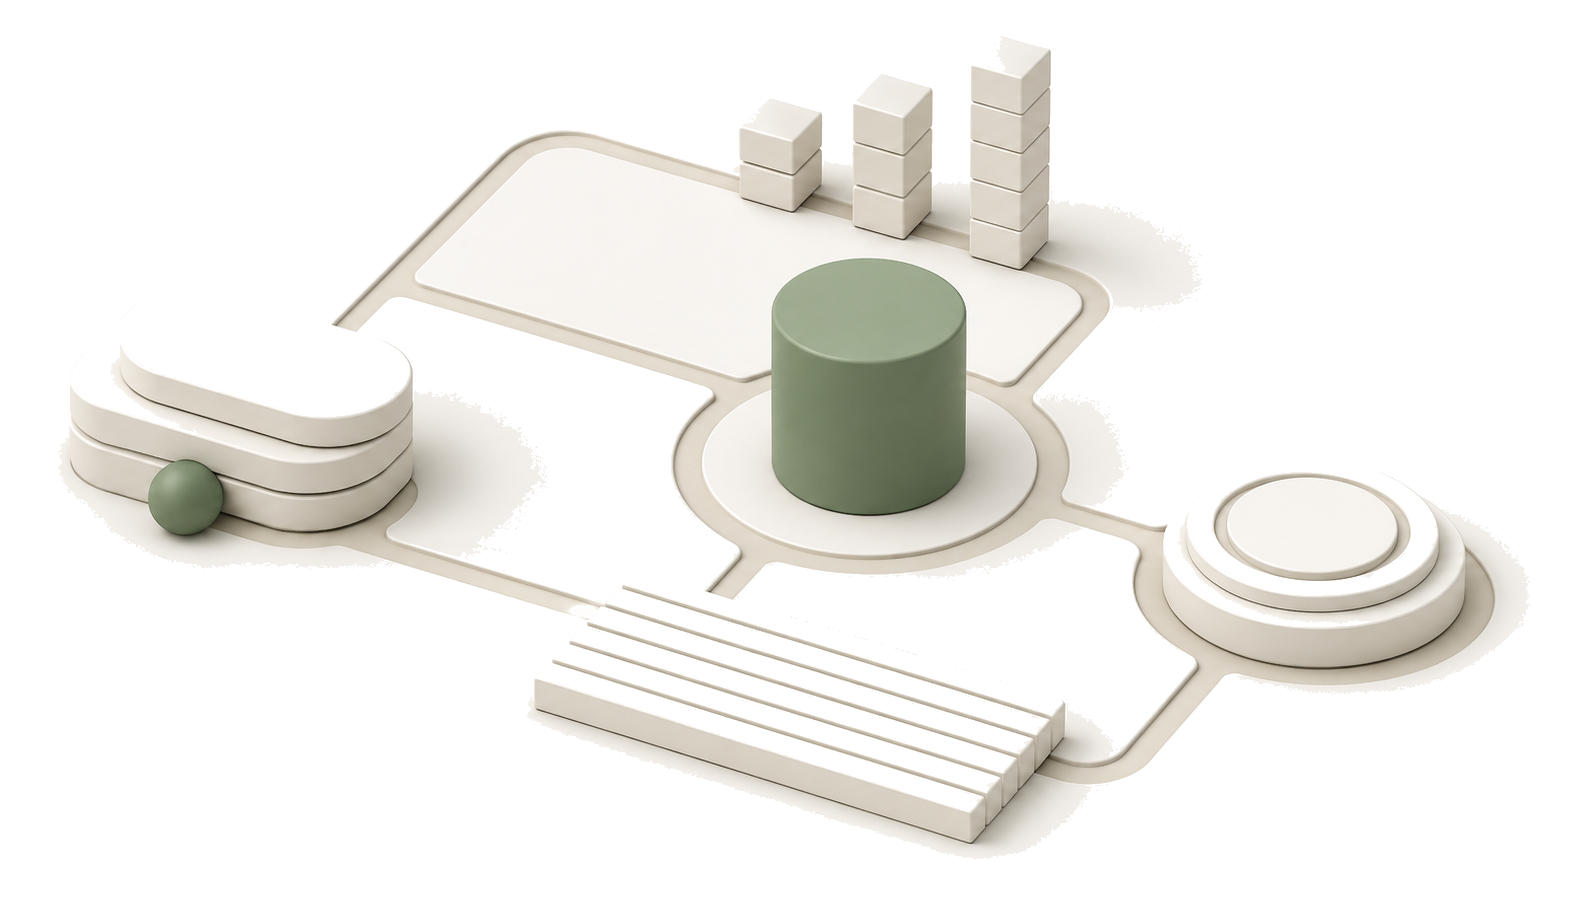
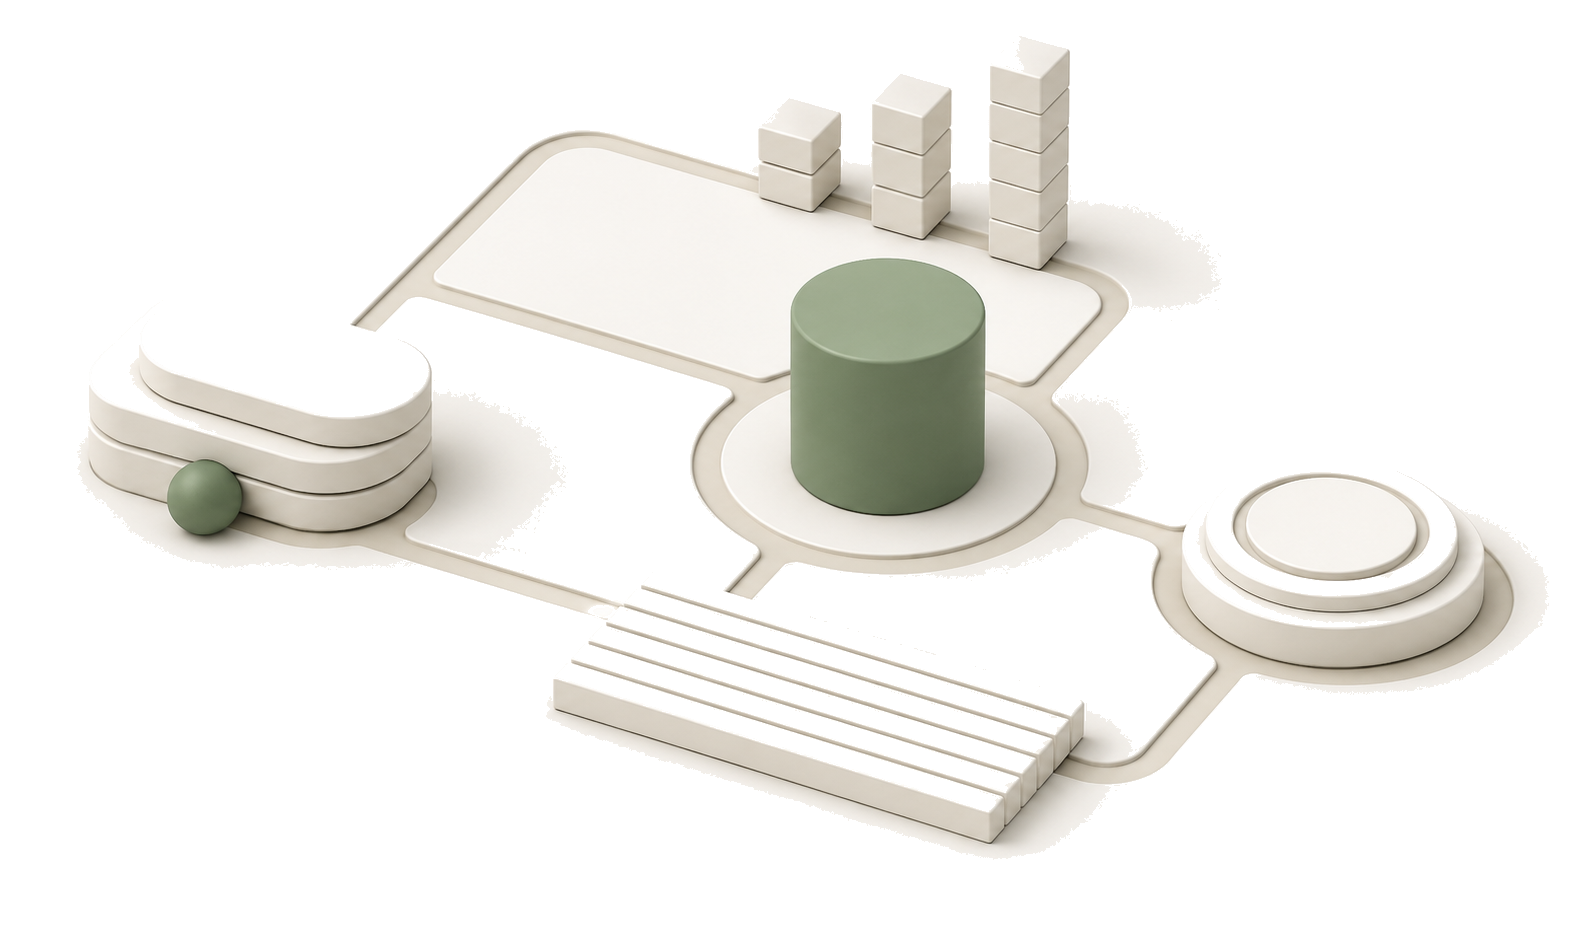
feat(jornada): as sete cenas ligadas aos passos, alinhadas por correlação de fase
O scrollytelling agora troca de estado de verdade: a cena fixa muda conforme o
passo em vista, e o trilho numerado acompanha. Verificado ponto a ponto — passo e
cena batem em 01, 02, 03, 05, 06 e 07.

ALINHAMENTO (scripts/alinhar.py, novo). Correlação de fase por FFT contra a cena
base, sem escolher peça-âncora à mão — o que seria frágil, porque cada estado
muda peças diferentes. Resultado que me contradiz: QUATRO das cinco cenas vieram
com deslocamento ZERO. Eu tinha avisado que viriam desalinhadas; isso valia para
as camadas isoladas, não para cenas completas — a fórmula "change ONLY..." segura
o enquadramento em close. Só a cena-04 estava a -13px, corrigida para +3, que é o
piso de ruído da medição (amostra de 512px para imagem de 1672px).

Erro de sinal encontrado por medição: a primeira versão do corretor colava em
(-dx,-dy) e DOBRAVA o desvio — a cena-04 foi de -13 para -26. Corrigido para
(dx,dy). Sem medir o resíduo depois de aplicar, isso teria passado.

Depois do alinhamento, todas recortadas com uma JANELA ÚNICA (união dos bboxes),
o que preserva o alinhamento e tira margem por igual.

MECANISMO. IntersectionObserver com faixa central da tela: o passo em vista é o
que está no meio, não o que encostou na borda — senão a cena troca antes do
texto que a pessoa está lendo. As sete imagens ficam no HTML servido, requisito
de GEO; o script só decide qual está opaca, e sem ele o conteúdo continua todo lá.
[…]

Changed region(s): [[0.0309, 0.0305, 0.9565, 0.9455]]

diff --git a/components/Jornada.tsx b/components/Jornada.tsx
@@ -1,5 +1,7 @@
 import Image from "next/image";
 
+import { CenaSticky } from "./CenaSticky";
+
 /**
  * A vida de um lead — o scrollytelling.
  *
@@ -10,9 +12,16 @@ import Image from "next/image";
  * O trilho numerado à esquerda vem da referência do Twenty: sem ele, sticky longo
  * vira desorientação — o visitante não sabe em que passo está nem quantos faltam.
  *
- * ESTADO ATUAL: as sete cenas ainda não foram geradas; todas apontam para a
- * cena base. A estrutura, o sticky e o trilho já são os definitivos — quando as
- * imagens chegarem é só trocar `img` em cada passo.
+ * ALINHAMENTO: as cenas foram alinhadas por correlação de fase contra a base
+ * (scripts/alinhar.py) e recortadas com uma janela única. Quatro das cinco já
+ * vieram com deslocamento ZERO — a fórmula "change ONLY..." segura o
+ * enquadramento em cenas de close. Resíduo máximo: 3px, abaixo do piso de ruído
+ * da medição.
+ *
+ * PENDÊNCIAS: o passo 01 usa a cena base (a esfera já está na conversa e os
+ * sulcos estão apagados, o que serve, mas falta o cartão de contexto subindo).
+ * O passo 06 reusa a cena do 05 porque a imagem de handoff saiu em 1536x1024
+ * contra 1672x941 das demais — câmera diferente, pularia no sticky.
  */
 const PASSOS = [
   {
@@ -28,7 +37,7 @@ const PASSOS = [
     titulo: "O agente lê antes de falar",
     texto:
       "Ele busca na base de conhecimento da sua empresa — seu prazo, sua política, seu catálogo. Não inventa.",
-    img: "/img/cena-00-base.png",
+    img: "/img/cena-02.png",
     alt: "Uma linha liga o agente à base de conhecimento; os documentos acendem em sequência.",
   },
   {
@@ -36,7 +45,7 @@ const PASSOS = [
     titulo: "Sete verificações antes de enviar",
     texto:
       "Descadastro, LGPD, anti-banimento, variação de texto, promessa determinística, promessa semântica e aviso de automação. Nessa ordem, sempre.",
-    img: "/img/cena-00-base.png",
+    img: "/img/cena-03.png",
     alt: "Sete blocos formam um corredor entre o agente e a borda da mesa. Seis passam em verde; um barra em âmbar.",
   },
   {
@@ -44,7 +53,7 @@ const PASSOS = [
     titulo: "Inclusive o que ele decidiu não enviar",
     texto:
       "O agente ia prometer entrega em 24h. A verificação barrou: esse prazo não existe no seu catálogo. Fica registrado o que ele ia dizer — e por que não disse.",
-    img: "/img/cena-00-base.png",
+    img: "/img/cena-04.png",
     alt: "Aproximação no bloco âmbar; um registro se materializa ao lado com a razão da recusa.",
   },
   {
@@ -52,7 +61,7 @@ const PASSOS = [
     titulo: "O lead se move sozinho",
     texto:
       "Qualificado, ele muda de etapa no funil. A etiqueta entra, o responsável é definido — e cada movimento tem motivo registrado.",
-    img: "/img/cena-00-base.png",
+    img: "/img/cena-05.png",
     alt: "A esfera do lead percorre a trilha até o funil e assenta numa coluna nova.",
   },
   {
@@ -60,7 +69,7 @@ const PASSOS = [
     titulo: "Quando é a vez do humano, ele recebe contexto",
     texto:
       "Não a conversa crua: resumo do que aconteceu, o que foi combinado, quais objeções apareceram e qual é o próximo passo.",
-    img: "/img/cena-00-base.png",
+    img: "/img/cena-05.png",
     alt: "O módulo do agente passa o bastão para o do atendente; um cartão de resumo transita entre os dois.",
   },
   {
@@ -68,7 +77,7 @@ const PASSOS = [
     titulo: "E se ninguém responder, não morre",
     texto:
       "Follow-up agendado. Se esfriar, o lead aparece no Radar classificado por risco — antes de virar prejuízo.",
-    img: "/img/cena-00-base.png",
+    img: "/img/cena-07.png",
     alt: "O módulo do temporizador acende e o lead ganha um anel âmbar de risco.",
   },
 ];
@@ -93,6 +102,7 @@ export function Jornada() {
             {PASSOS.map((p) => (
               <li
                 key={p.n}
+                id={`passo-${p.n}`}
                 className="grid grid-cols-[2.5rem_minmax(0,1fr)] gap-x-5 py-10 lg:min-h-[78vh] lg:content-center"
               >
                 <span className="passo-num pt-1 font-mono text-sm text-text-muted">
@@ -112,8 +122,8 @@ export function Jornada() {
                     <Image
                       src={p.img}
                       alt={p.alt}
-                      width={1588}
-                      height={918}
+                      width={1594}
+                      height={941}
                       className="h-auto w-full"
                     />
                   </div>
@@ -126,13 +136,7 @@ export function Jornada() {
           <div className="hidden lg:block">
             <div className="sticky top-0 flex h-screen items-center">
               <div className="w-full overflow-hidden rounded-[16px] border border-border bg-bg p-4">
-                <Image
-                  src="/img/cena-00-base.png"
-                  alt="O agrupamento central da mesa: conversa, funil, agente, temporizador e registro, ligados por sulcos."
-                  width={1588}
-                  height={918}
-                  className="h-auto w-full"
-                />
+                <CenaSticky cenas={PASSOS.map(({ n, img, alt }) => ({ n, img, alt }))} />
               </div>
             </div>
           </div>

diff --git a/components/CenaSticky.tsx b/components/CenaSticky.tsx
@@ -1,0 +1,72 @@
+"use client";
+
+import Image from "next/image";
+import { useEffect, useRef, useState } from "react";
+
+type Cena = { n: string; img: string; alt: string };
+
+/**
+ * A cena fixa que troca de estado conforme o passo em vista.
+ *
+ * As SETE imagens ficam no HTML servido — requisito de GEO, já que nenhum crawler
+ * de IA executa JavaScript. O script só decide qual está opaca. Se ele não rodar,
+ * a última da pilha aparece e o conteúdo continua todo lá.
+ *
+ * Observa os passos pelo id em vez de calcular posição de scroll: sobrevive a
+ * mudança de altura das seções, a zoom e a mudança de fonte do usuário.
+ */
+export function CenaSticky({ cenas }: { cenas: Cena[] }) {
+  const [ativo, setAtivo] = useState(0);
+  const refPreso = useRef<HTMLDivElement>(null);
+
+  useEffect(() => {
+    const alvos = cenas
+      .map((c) => document.getElementById(`passo-${c.n}`))
+      .filter((e): e is HTMLElement => e !== null);
+    if (!alvos.length) return;
+
+    const obs = new IntersectionObserver(
+      (entradas) => {
+        const visivel = entradas
+          .filter((e) => e.isIntersecting)
+          .sort((a, b) => b.intersectionRatio - a.intersectionRatio)[0];
+        if (!visivel) return;
+        const i = alvos.indexOf(visivel.target as HTMLElement);
+        if (i < 0) return;
+        setAtivo(i);
+        // Marca o passo em vista para o trilho numerado. Uma fonte de verdade
+        // só: antes o número dependia de animation-timeline: view(), que não
+        // aplicou no navegador de teste — dois mecanismos para o mesmo estado,
+        // e um deles calado. Agora o observador manda nos dois.
+        alvos.forEach((a, j) => a.toggleAttribute("data-ativo", j === i));
+      },
+      // Faixa central da tela: o passo "em vista" é o que está no meio, não o
+      // que encostou na borda — senão a cena troca cedo demais e desencontra
+      // do texto que o visitante está lendo.
+      { rootMargin: "-40% 0px -40% 0px", threshold: 0 },
+    );
+    alvos.forEach((a) => obs.observe(a));
+    return () => obs.disconnect();
+  }, [cenas]);
+
+  return (
+    <div ref={refPreso} className="relative">
+      {cenas.map((c, i) => (
+        <Image
+          key={c.n}
+          src={c.img}
+          alt={i === 0 ? c.alt : ""}
+          aria-hidden={i !== 0}
+          width={1594}
+          height={941}
+          priority={i === 0}
+          className={[
+            "h-auto w-full transition-opacity duration-[320ms] ease-out-slow motion-reduce:transition-none",
+            i === 0 ? "" : "absolute inset-0",
+            i === ativo ? "opacity-100" : "opacity-0",
+          ].join(" ")}
+        />
+      ))}
+    </div>
+  );
+}

diff --git a/app/globals.css b/app/globals.css
@@ -67,20 +67,13 @@
   .regra-num { animation: none; }
 }
 
-/* Trilho numerado da jornada: mesma lógica do trilho das regras — o número do
-   passo em vista ganha destaque, informando onde você está numa sequência longa.
-   Sem isso, sticky de sete passos vira desorientação. */
-@supports (animation-timeline: view()) {
-  .passo-num {
-    animation: ds-passo-ativo linear both;
-    animation-timeline: view();
-    animation-range: cover 30% cover 70%;
-  }
-  @keyframes ds-passo-ativo {
-    0%, 100% { color: theme("colors.text-muted"); }
-    45%, 55% { color: theme("colors.accent.600"); }
-  }
+/* Trilho numerado da jornada: marcado pelo mesmo observador que troca a cena.
+   Uma fonte de verdade para "qual passo está em vista" — com dois mecanismos,
+   um deles falha calado e o trilho desencontra da imagem. */
+[data-ativo] .passo-num {
+  color: theme("colors.accent.600");
 }
-@media (prefers-reduced-motion: reduce) {
-  .passo-num { animation: none; }
+.passo-num {
+  transition: color 200ms cubic-bezier(0.25, 0.1, 0.25, 1);
 }
+

diff --git a/scripts/alinhar.py b/scripts/alinhar.py
@@ -1,0 +1,68 @@
+#!/usr/bin/env python3
+"""
+Alinha as cenas do scrollytelling contra a cena base.
+
+POR QUE PRECISA: o gerador recompõe cada cena. Num sticky onde a imagem troca sem
+sair da tela, alguns pixels de deslocamento fazem a mesa PULAR a cada passo — e o
+efeito de "a mesa evolui" morre. Nos cartões isso passaria; aqui não.
+
+MÉTODO: correlação de fase (FFT). Compara a cena inteira com a base e devolve o
+deslocamento (dx, dy) que maximiza a similaridade. Não depende de escolher uma
+peça-âncora à mão — o que seria frágil, porque cada estado muda peças diferentes.
+"""
+
+import sys
+
+import numpy as np
+from PIL import Image
+
+CREME = (250, 249, 246)
+
+
+def _cinza(caminho: str, tamanho: tuple[int, int]) -> np.ndarray:
+    im = Image.open(caminho).convert("RGBA")
+    fundo = Image.new("RGBA", im.size, (*CREME, 255))
+    fundo.alpha_composite(im)
+    return np.asarray(fundo.convert("L").resize(tamanho, Image.BILINEAR), dtype=float)
+
+
+def deslocamento(base: str, alvo: str, amostra: tuple[int, int] = (512, 288)) -> tuple[int, int]:
+    a, b = _cinza(base, amostra), _cinza(alvo, amostra)
+    a = a - a.mean()
+    b = b - b.mean()
+    fa, fb = np.fft.fft2(a), np.fft.fft2(b)
+    cruz = fa * np.conj(fb)
+    mag = np.abs(cruz)
+    mag[mag == 0] = 1e-9
+    corr = np.fft.ifft2(cruz / mag).real
+    pico = np.unravel_index(np.argmax(corr), corr.shape)
+    dy, dx = pico
+    if dy > amostra[1] // 2:
+        dy -= amostra[1]
+    if dx > amostra[0] // 2:
+        dx -= amostra[0]
+    # Converte do espaço da amostra para o da imagem original.
+    largura_real = Image.open(base).size[0]
+    escala = largura_real / amostra[0]
+    return int(round(dx * escala)), int(round(dy * escala))
+
+
+if __name__ == "__main__":
+    base = sys.argv[1]
+    for alvo in sys.argv[2:]:
+        dx, dy = deslocamento(base, alvo)
+        nome = alvo.split("/")[-1]
+        print(f"{nome:26s} deslocamento vs base: dx={dx:+5d}  dy={dy:+5d}")
+
+
+def aplicar(base: str, alvo: str) -> None:
+    """Desloca `alvo` para casar com `base`, preservando o tamanho da tela."""
+    dx, dy = deslocamento(base, alvo)
+    if dx == 0 and dy == 0:
+        print(f"  {alvo.split('/')[-1]}: já alinhada")
+        return
+    im = Image.open(alvo).convert("RGBA")
+    novo = Image.new("RGBA", im.size, (0, 0, 0, 0))
+    novo.paste(im, (dx, dy))
+    novo.save(alvo)
+    print(f"  {alvo.split('/')[-1]}: deslocada dx={dx:+d} dy={dy:+d}")
